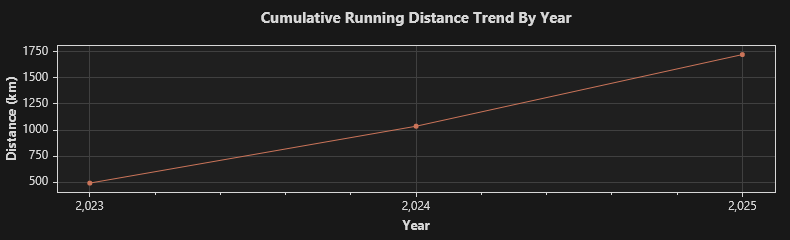
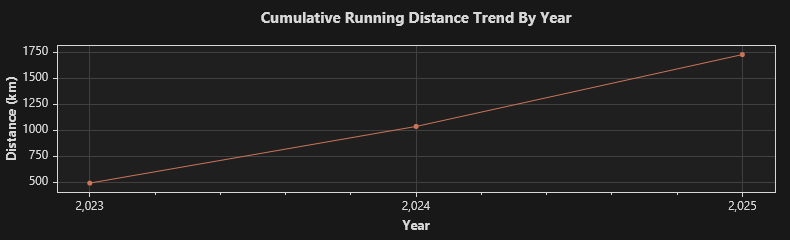
2025/12/29 跑步 5.04 公里

diff --git a/trend.md b/trend.md
@@ -1,4 +1,4 @@
-### Total: 291 days, 1723.68 km.
+### Total: 292 days, 1728.72 km.
 
 
 ![Monthly](https://github.com/prime167/MyRunningLog/blob/main/data/CumulativeTrendByMonth.png)
